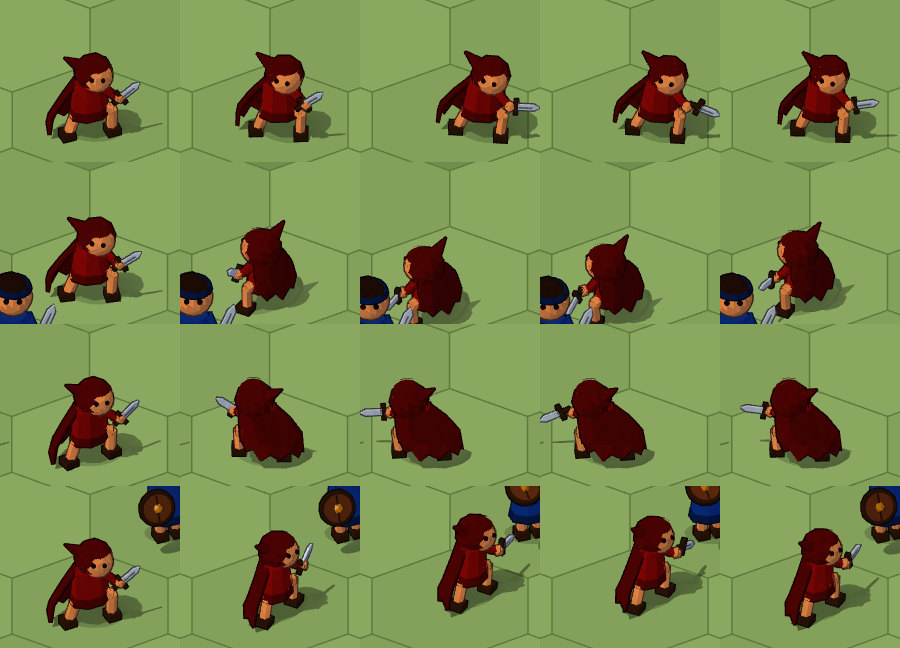
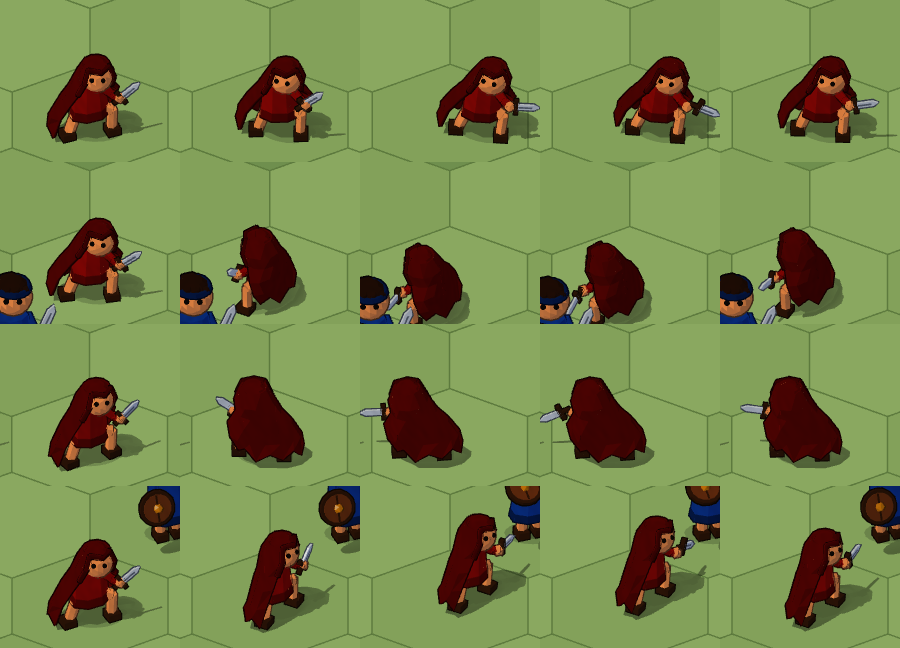
3D look: the scout's hood is a rounded cowl, and his cloak is fuller in front
David's notes on the turntable. The pointed tip on top of the hood is gone, and
the ball behind the head with it: the cloak's sheet now starts as a soft cowl,
two rings close round the head under a round cap, open at the face, with a
rolled darker edge from shoulder to shoulder over the brow so it reads as a hood.
It falls onto the shoulders and into the cloak as one piece.

The cloak wraps further forward toward the chest on both sides and flares wider
on the dagger side too (behind the arm and the front knee), so the front and
three-quarter views show cloak on both sides of the body, rising beside the head.
The dagger arm stays clear in the stab and the walk.

The scout is 1034 triangles (was 946); 1064 in rags.

scripts/scout360-shots.ts: WEAR=n draws the figures at a wear stage (the dev
server swaps CLEAN as it serves parts.ts), for the Gritty rags; stills at the
front, a three-quarter view, the side and the back. New shots, with
scout360-rags-sheet.png and a before-after against 7809f45.

diff --git a/src/ui/terrain3d/units/figures.ts b/src/ui/terrain3d/units/figures.ts
@@ -661,17 +661,20 @@ function piper(k: Kit, { look: c, wear: w }: FigureOpts): typeof NARROW {
 }
 
 /**
- * The rings the scout's cloak is laid on, top to hem (world units in his turn): the height, the centre (x, z), the
- * reach to each side (rx: toward -x, where it sweeps out behind him, then toward +x) and back (rz), and how far round
- * it goes each way from straight behind (radians: toward -x, his trailing side, and toward +x, his dagger side, where
- * it stops short of the arm and the front knee).
- * The hem's height is given per point instead (SCOUT_HEM).
+ * The rings the scout's hood and cloak are laid on, from the crown to the hem (world units in his turn): the height,
+ * the centre (x, z), the reach to each side (rx: toward -x, where the cloak sweeps out behind him, then toward +x) and
+ * back (rz), and how far round each ring goes from straight behind (radians: toward -x, his trailing side, and toward
+ * +x, his dagger side). The top two rings are the cowl, close round the head and open at the face; the next wraps his
+ * shoulders toward the chest, above the dagger arm; below it the cloak stops short of the arm and the front knee on
+ * the dagger side and wraps forward on the other. The hem's height is given per point instead (SCOUT_HEM).
  */
 const SCOUT_CLOAK: readonly { y: number; c: [number, number]; rx: [number, number]; rz: number; from: number; to: number }[] = [
-  { y: 21.6, c: [0.6, -0.6], rx: [6.0, 6.0], rz: 4.8, from: -1.75, to: 1.66 },
-  { y: 16.0, c: [0, -0.5], rx: [10.2, 7.0], rz: 5.4, from: -1.75, to: 1.57 },
-  { y: 10.0, c: [-2.0, -0.8], rx: [12.0, 8.8], rz: 6.0, from: -1.71, to: 1.40 },
-  { y: 0, c: [-4.0, -1.2], rx: [10.6, 9.4], rz: 6.6, from: -1.66, to: 1.13 },
+  { y: 29.0, c: [2.2, 0.8], rx: [4.6, 4.6], rz: 4.6, from: -2.25, to: 2.25 },
+  { y: 24.2, c: [2.0, 0.2], rx: [6.8, 6.6], rz: 6.4, from: -2.3, to: 2.15 },
+  { y: 19.6, c: [0.6, -0.4], rx: [8.0, 7.4], rz: 5.6, from: -2.35, to: 2.0 },
+  { y: 15.5, c: [-0.4, -0.6], rx: [10.4, 11.2], rz: 5.8, from: -2.3, to: 1.5 },
+  { y: 10.0, c: [-2.0, -0.8], rx: [12.0, 12.2], rz: 6.0, from: -2.2, to: 1.35 },
+  { y: 0, c: [-4.0, -1.2], rx: [10.6, 11.6], rz: 6.6, from: -2.0, to: 1.3 },
 ];
 /** The hem's height at each of the cloak's nine points round it (from -x round to +x): torn points between notches. */
 const SCOUT_HEM = [2.6, 6.4, 3.6, 7.2, 4.4, 6.8, 3.4, 7.6, 5.2];
@@ -686,6 +689,12 @@ function scoutCloak(k: Kit, colour: string, rags: boolean): void {
     return [ring.c[0] + ring.rx[a < 0 ? 0 : 1] * Math.sin(a), y, ring.c[1] - ring.rz * Math.cos(a)];
   }));
   k.shell(rows, 0.8, colour, [0, -0.5]);
+  // A rolled edge round the face, from one shoulder up over the brow and down to the other, so the cowl reads as a
+  // hood and not as hair.
+  const last = hem.length - 1;
+  const brow: V3 = [2.2, 28.4, 5.7];
+  const edge: V3[] = [rows[2]![0]!, rows[1]![0]!, rows[0]![0]!, brow, rows[0]![last]!, rows[1]![last]!, rows[2]![last]!];
+  for (let i = 0; i + 1 < edge.length; i++) k.rod(edge[i]!, edge[i + 1]!, 0.75, mix(colour, '#000000', 0.25), { seg: 5 });
 }
 
 function scout(k: Kit, { look: c, wear: w }: FigureOpts): typeof NARROW {
@@ -704,13 +713,12 @@ function scout(k: Kit, { look: c, wear: w }: FigureOpts): typeof NARROW {
     const ts = (x: number, y: number) => tunicSurf(0.3)(x, y);
     if (worn(w, 1)) dirt(k, ts, 2.6, H(-3.4), 3.6, c.dark);
     if (worn(w, 3)) { const [lip, gap] = tearPolys(1.6, H(-9.4), 3.4, 3.0); k.decal(lip, mix(c.main, '#000000', 0.45), ts); k.decal(gap, SKIN, ts); }
-    // The hooded cloak in the owner's dark colour: from under the hood it wraps his shoulders and back and sweeps
-    // out behind him (toward -x) as it falls, its hem torn into points (in rags when broken).
+    // The hooded cloak in the owner's dark colour: a soft cowl round his head, open at the face, that falls onto his
+    // shoulders and back and sweeps out behind him (toward -x), its hem torn into points (in rags when broken).
     scoutCloak(k, c.dark, worn(w, 4));
     const hd = head(k, 2.2, -14.8, 5.4, 1.2, 0.6);
-    k.ball([hd.c[0] - 0.4, hd.c[1] + 0.3, hd.c[2] - 1.6], 6.4, c.dark, { detail: 1 });
+    // The crown of the cowl: a round cap over the head, inside the cloak's top ring.
     k.dome([hd.c[0], hd.c[1] + 0.6, hd.c[2] - 0.2], 5.95, c.dark, { to: 0.9, seg: 12 });
-    k.rod([hd.c[0] - 4, hd.c[1] + 2.6, hd.c[2] - 3], [hd.c[0] - 9.4, hd.c[1] + 6.8, hd.c[2] - 4.6], 2.6, c.dark, { r1: 0.2, seg: 6 });
     faceWear(k, hd, w, 1);
     // A short dagger held low and forward.
     arm(k, [4.2, H(-11), 1.4], [8.8, H(-8.2), 5.0], c.main);

diff --git a/scripts/scout360-shots.ts b/scripts/scout360-shots.ts
@@ -1,7 +1,7 @@
 // A 360 turntable of a 3D figure (contact sheet and GIF), stills at its side and back, its strike at four facings
 // and its walk (GIFs and a sheet of key frames), and a stretch of board at game zoom. Drawn by scripts/scout360/sheet.ts
 // through Vite's dev server in Chromium with software WebGL, the figure turned by the game's own facing.
-// Run: npx tsx scripts/scout360-shots.ts [out dir] [tag] [unit type]   (needs ffmpeg)
+// Run: [WEAR=4] npx tsx scripts/scout360-shots.ts [out dir] [tag] [unit type]   (needs ffmpeg)
 // The tag names the files (scout360-<tag>-sheet.png, scout360-<tag>.gif, <tag>-yaw090.png ...), so a run before a
 // change and one after can be set side by side.
 import { execFileSync } from 'node:child_process';
@@ -23,8 +23,8 @@ const BOX = { left: 27, right: 27, up: 38, down: 12 };
 /** The turntable's steps (degrees) for the GIF, and the views on the contact sheet (two rows of four). */
 const STEP = 15;
 const SHEET = [0, 45, 90, 135, 180, 225, 270, 315];
-/** The views kept as stills for a before and after: one side, the back, the other side. */
-const STILLS = [90, 180, 270];
+/** The views kept as stills for a before and after: the front, a three-quarter view, the side and the back. */
+const STILLS = [330, 30, 90, 180];
 /** The strike's key moments (ms) for its sheet: rest, drawn back, the stab, the hold, coming back. */
 const STRIKE_KEYS = [200, 340, 420, 500, 640];
 const STRIKE_BOX = { left: 30, right: 30, up: 40, down: 14 };
@@ -41,7 +41,22 @@ const ff = (args: string[]): void => { execFileSync('ffmpeg', ['-y', '-loglevel'
 const gif = (pattern: string, fps: number, to: string): void =>
   ff(['-framerate', String(fps), '-i', pattern, '-vf', 'split[a][b];[a]palettegen=max_colors=128[p];[b][p]paletteuse=dither=bayer:bayer_scale=4', '-loop', '0', to]);
 
-const server = await createServer({ logLevel: 'silent', server: { host: '127.0.0.1', port: 0 } });
+/**
+ * WEAR=n draws every figure at wear stage n (4 = broken: Gritty's rags), which the game never does on main: the dev
+ * server swaps the figures' CLEAN wear for it as it serves parts.ts. Nothing in src changes.
+ */
+const wearStage = Number(process.env.WEAR ?? 0);
+const CLEAN_LINE = 'export const CLEAN: Wear = { stage: 0, blood: 0 };';
+const wearPlugin = {
+  name: 'figure-wear',
+  enforce: 'pre' as const,
+  transform(code: string, id: string): string | null {
+    if (wearStage === 0 || !id.endsWith('/units/parts.ts')) return null;
+    if (!code.includes(CLEAN_LINE)) throw new Error('parts.ts no longer declares CLEAN as expected');
+    return code.replace(CLEAN_LINE, `export const CLEAN: Wear = { stage: ${wearStage}, blood: 0 };`);
+  },
+};
+const server = await createServer({ logLevel: 'silent', plugins: [wearPlugin], server: { host: '127.0.0.1', port: 0 } });
 await server.listen();
 const addr = server.httpServer?.address();
 const port = typeof addr === 'object' && addr !== null ? addr.port : 0;
@@ -50,6 +65,7 @@ const tmp = mkdtempSync(join(tmpdir(), 'scout360-'));
 try {
   const page = await browser.newPage({ viewport: { width: 1400, height: 900 }, deviceScaleFactor: 1 });
   page.on('pageerror', (e) => console.error(e));
+  page.on('console', (m) => { if (m.type() === 'error') console.error(m.text()); });
   await page.goto(`http://127.0.0.1:${port}/scripts/scout360/sheet.html`);
   await page.waitForSelector('body[data-ready="1"]', { state: 'attached', timeout: 60_000 });
 
